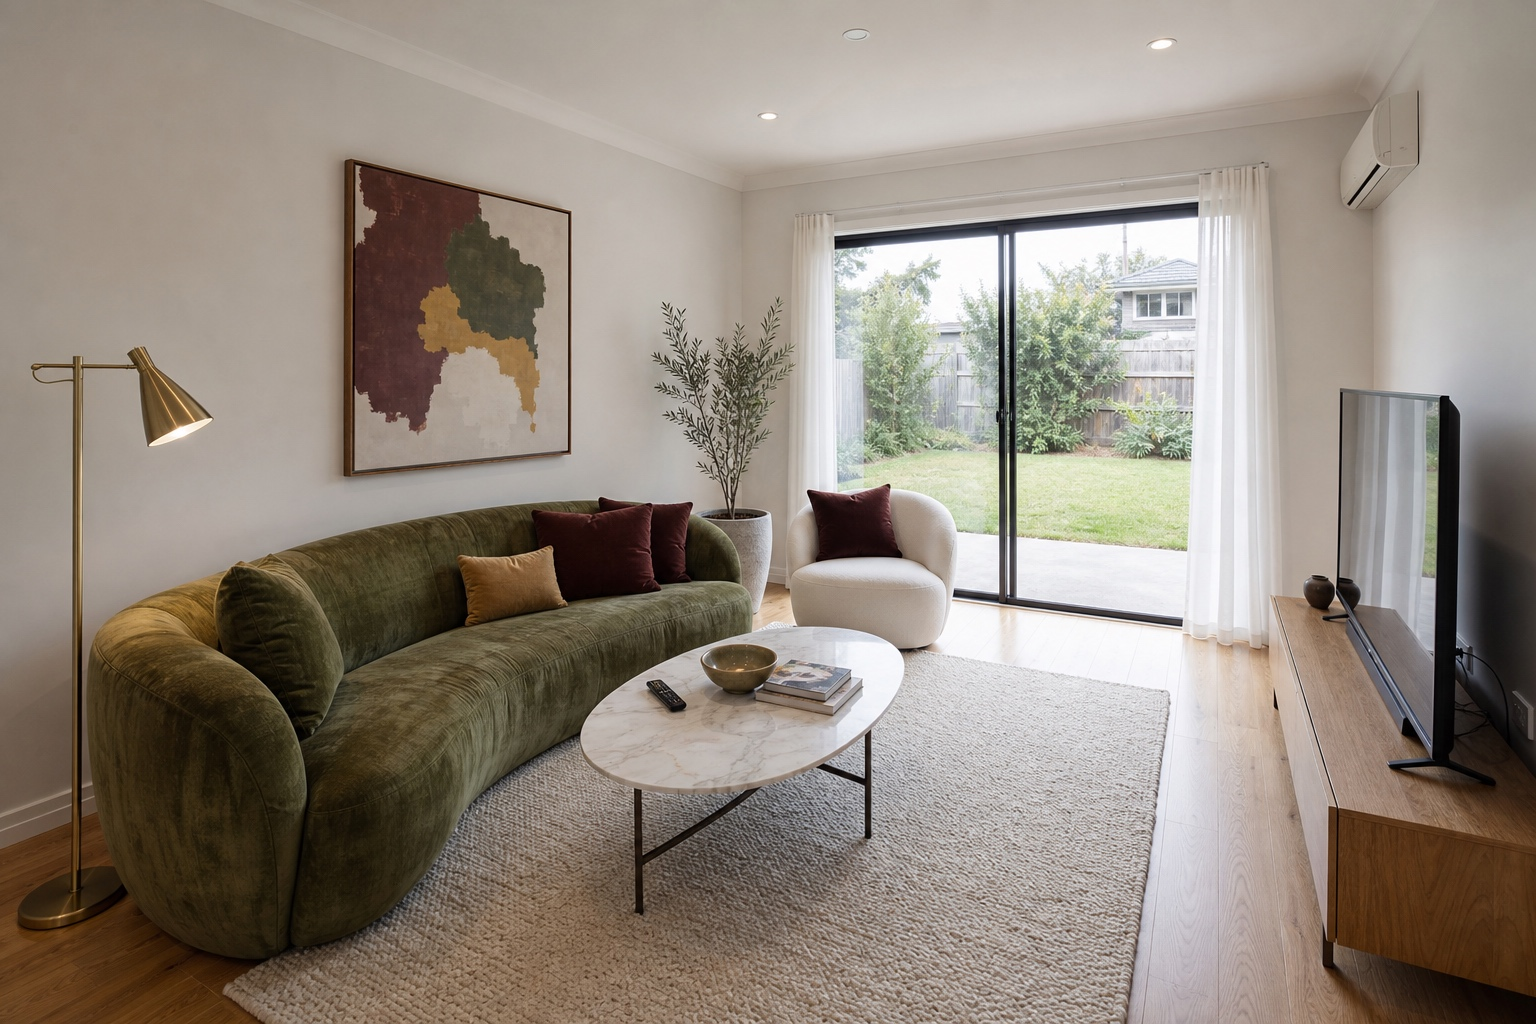
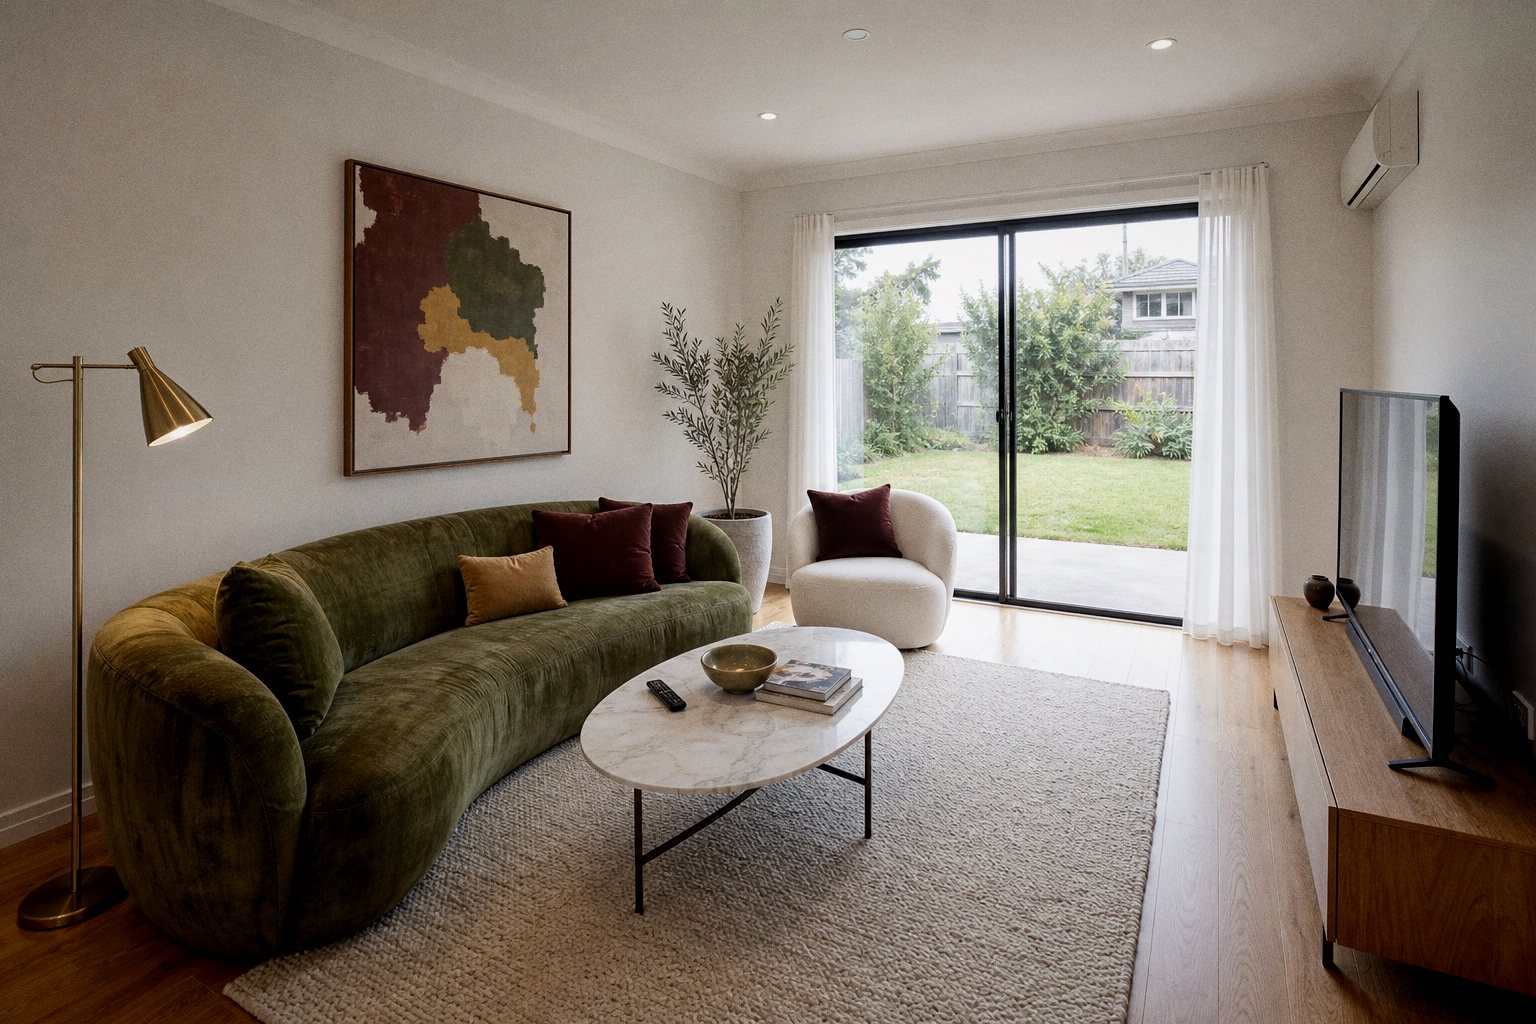
Switch site typography to scheme E (Cormorant Garamond 500 + Inter), E-spec sizes; integrate regenerated realistic living-v2 pair with photographic grade

diff --git a/index.html b/index.html
@@ -8,7 +8,7 @@
     <title>Vale&amp;Co. Styling — Property Styling &amp; Home Staging Sydney</title>
     <link rel="preconnect" href="https://fonts.googleapis.com" />
     <link rel="preconnect" href="https://fonts.gstatic.com" crossorigin />
-    <link href="https://fonts.googleapis.com/css2?family=Fraunces:opsz,wght@9..144,300;9..144,400;9..144,500;9..144,600&family=Nunito+Sans:opsz,wght@6..12,300;6..12,400;6..12,600;6..12,700&family=Noto+Sans+SC:wght@300;400;500;700&display=swap" rel="stylesheet" />
+    <link href="https://fonts.googleapis.com/css2?family=Cormorant+Garamond:ital,wght@0,400;0,500;0,600;0,700;1,500&family=Inter:wght@300;400;500;600&family=Noto+Sans+SC:wght@300;400;500;700&display=swap" rel="stylesheet" />
   </head>
   <body>
     <div id="root"></div>

diff --git a/src/components/PageHeader.tsx b/src/components/PageHeader.tsx
@@ -10,7 +10,7 @@ export default function PageHeader({
   return (
     <section className="bg-cream px-6 pb-14 pt-36 text-center">
       <p className="mb-3 text-xs font-medium uppercase tracking-[0.3em] text-brand">{eyebrow}</p>
-      <h1 className="font-display mx-auto max-w-3xl text-4xl md:text-[2.5rem]">{title}</h1>
+      <h1 className="font-display mx-auto max-w-3xl text-4xl md:text-[2.75rem]">{title}</h1>
       <div className="mx-auto mt-5 flex items-center justify-center gap-3 text-oak">
         <span className="h-px w-10 bg-oak/40" />
         <span className="text-[9px]">◆</span>

diff --git a/src/index.css b/src/index.css
@@ -8,12 +8,17 @@
   --color-sand: #dbcbb0;
   --color-linen: #f7efe2;
   --color-oak: #a0825f;
-  --font-display: "Fraunces", "Noto Sans SC", Georgia, serif;
-  --font-sans: "Nunito Sans", "Noto Sans SC", system-ui, sans-serif;
+  --font-display: "Cormorant Garamond", "Noto Sans SC", Georgia, serif;
+  --font-sans: "Inter", "Noto Sans SC", system-ui, sans-serif;
 }
 
 html {
   scroll-behavior: smooth;
+}
+
+/* Cormorant 笔画纤细，标题统一用 Medium 字重（方案 E 规格） */
+.font-display {
+  font-weight: 500;
 }
 
 body {

diff --git a/src/components/Hero.tsx b/src/components/Hero.tsx
@@ -79,7 +79,7 @@ export default function Hero() {
         >
           {t.hero.eyebrow}
         </p>
-        <h1 className="font-display hidden max-w-4xl text-5xl leading-[1.08] md:block md:text-7xl">
+        <h1 className="font-display hidden max-w-4xl text-[3.125rem] leading-[1.08] md:block md:text-[4.875rem]">
           {SLOGAN_LINES.map((line, i) => (
             <span key={line} className="block overflow-hidden py-[0.06em]">
               <span

diff --git a/src/components/Services.tsx b/src/components/Services.tsx
@@ -12,7 +12,7 @@ export default function Services() {
           <p className="mb-3 text-xs font-medium uppercase tracking-[0.3em] text-brand">
             {t.services.eyebrow}
           </p>
-          <h2 className="font-display text-3xl md:text-[2.5rem]">{t.services.title}</h2>
+          <h2 className="font-display text-3xl md:text-[2.75rem]">{t.services.title}</h2>
           <p className="mt-4 text-ink/60">{t.services.intro}</p>
         </div>
 

diff --git a/src/components/Contact.tsx b/src/components/Contact.tsx
@@ -16,7 +16,7 @@ export default function Contact() {
           <p className="mb-3 text-xs font-medium uppercase tracking-[0.3em] text-brand">
             {t.contact.eyebrow}
           </p>
-          <h2 className="font-display text-3xl md:text-[2.5rem]">{t.contact.title}</h2>
+          <h2 className="font-display text-3xl md:text-[2.75rem]">{t.contact.title}</h2>
           <p className="mt-4 text-ink/70">{t.contact.intro}</p>
         </div>
 
